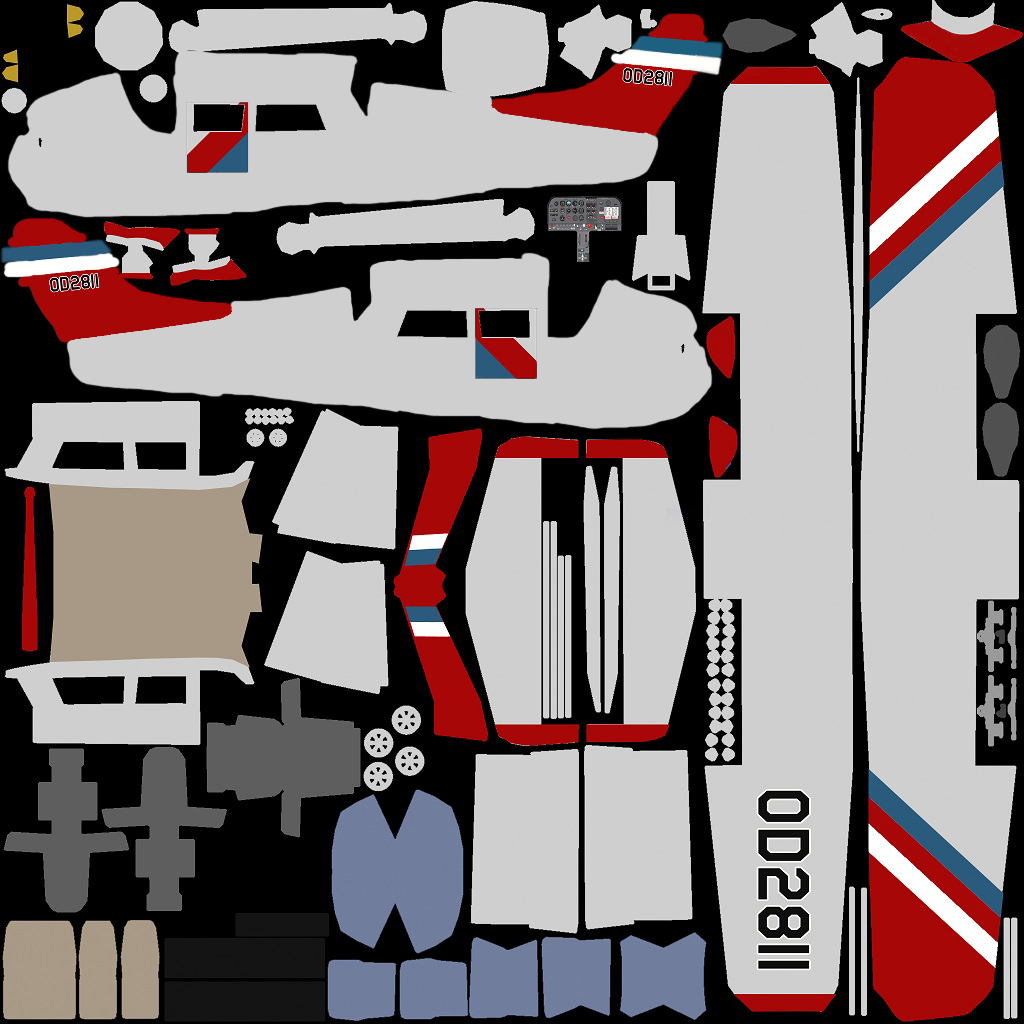
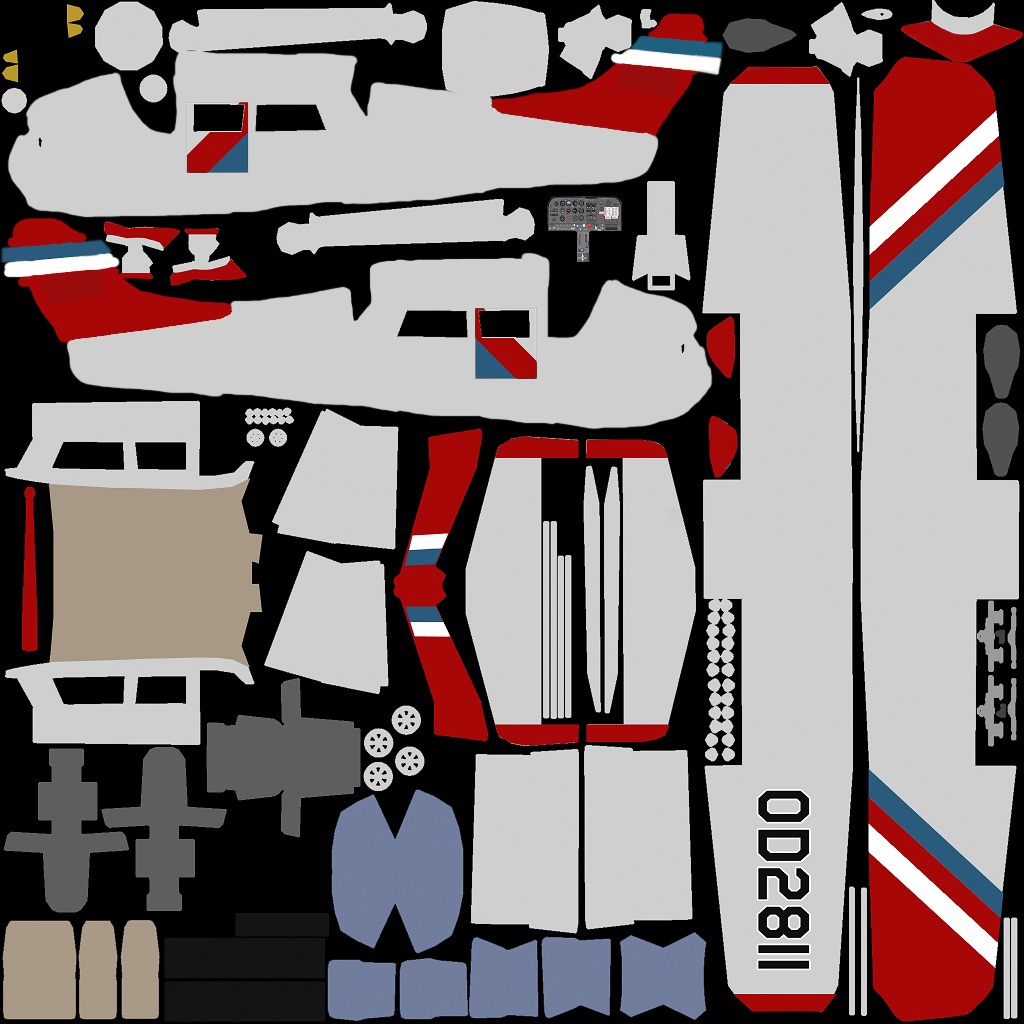
added textures

Changed region(s): [[0.5938, 0.0625, 0.6562, 0.0938], [0.0312, 0.25, 0.0938, 0.2812]]

diff --git a/src/cpp/App.cpp b/src/cpp/App.cpp
@@ -2,6 +2,7 @@
 #include "Camera.h"
 #include "Framebuffer.h"
 #include "Model.h"
+#include "Texture.h"
 #include "Window.h"
 
 #include <cstdlib>
@@ -18,9 +19,6 @@
 #include "glm/glm.hpp"
 #include "glm/gtc/matrix_transform.hpp"
 
-#define STB_IMAGE_IMPLEMENTATION
-#include "stb_image.h"
-
 // Shaders
 GLSLProgram *shader;
 GLSLProgram *display;
@@ -34,6 +32,7 @@ Camera *camera;
 
 // Displaying model
 Model *displaymodel;
+Texture *texture;
 
 // Model list
 std::vector<Model *> models;
@@ -53,6 +52,7 @@ int main() {
   }
 
   displaymodel = new Model("assets/models/display.obj");
+  texture = new Texture("assets/models/plane/diffuse.jpg");
 
   for (int i = 0; i < 2; i++) {
     std::cout << "Loading model: #" << i << std::endl;
@@ -78,9 +78,10 @@ int main() {
 
     shader->use();
     shader->setUniform("MVP", camera->getViewMatrix());
+    texture->use();
     for (int i = 0; i < models.size(); i++) {
       models.at(i)->setRotation(
-          glm::vec3(0.0f, (float)result.currentTime * 100 - 90, 0.0f));
+          glm::vec3(0.0f, (float)result.currentTime * 10 - 90, 0.0f));
       models.at(i)->setPosition(glm::vec3((float)i * -16.0f, 0.0f, 0.0f));
       shader->setUniform("uModelPosition", models.at(i)->getModelMatrix());
       models.at(i)->draw();

diff --git a/src/cpp/Texture.cpp b/src/cpp/Texture.cpp
@@ -1,0 +1,42 @@
+#include "Texture.h"
+#include <vector>
+
+#include <glm/vec3.hpp>
+
+#include <OBJLoader.h>
+#include <glm/gtc/matrix_transform.hpp>
+
+#define STB_IMAGE_IMPLEMENTATION
+#include "stb_image.h"
+
+Texture::Texture(const char *filename) {
+  glGenTextures(1, &texture);
+  glBindTexture(GL_TEXTURE_2D, texture);
+
+  // set the texture wrapping parameters
+  glTexParameteri(GL_TEXTURE_2D, GL_TEXTURE_WRAP_S, GL_REPEAT);
+  glTexParameteri(GL_TEXTURE_2D, GL_TEXTURE_WRAP_T, GL_REPEAT);
+
+  // set texture filtering parameters
+  glTexParameteri(GL_TEXTURE_2D, GL_TEXTURE_MIN_FILTER, GL_LINEAR);
+  glTexParameteri(GL_TEXTURE_2D, GL_TEXTURE_MAG_FILTER, GL_LINEAR);
+
+  // load image, create texture and generate mipmaps
+  int width, height, nrChannels;
+  // stbi_set_flip_vertically_on_load(true);
+
+  unsigned char *data = stbi_load(filename, &width, &height, &nrChannels, 0);
+  if (data) {
+    glTexImage2D(GL_TEXTURE_2D, 0, GL_RGB, width, height, 0, GL_RGB,
+                 GL_UNSIGNED_BYTE, data);
+    glGenerateMipmap(GL_TEXTURE_2D);
+  } else {
+    std::cout << "[TEXTURE] Failed to load texture" << std::endl;
+  }
+  stbi_image_free(data);
+}
+
+void Texture::use() {
+  glActiveTexture(GL_TEXTURE0);
+  glBindTexture(GL_TEXTURE_2D, texture);
+}

diff --git a/src/cpp/Window.cpp b/src/cpp/Window.cpp
@@ -66,7 +66,7 @@ bool Window::isValid() { return !!window; }
 bool Window::shouldClose() { return glfwWindowShouldClose(window); }
 void Window::setTitle(char *title) { this->title = title; }
 void Window::clear() {
-  glClearColor(0.0f, 0.0f, 0.0f, 1.0f);
+  glClearColor(0.2f, 0.2f, 0.2f, 1.0f);
   glClear(GL_COLOR_BUFFER_BIT | GL_DEPTH_BUFFER_BIT);
 }
 void Window::clean() {

diff --git a/include/Texture.h b/include/Texture.h
@@ -1,0 +1,21 @@
+#pragma once
+
+#include <GL/glew.h>
+#include <glm/gtx/transform.hpp>
+#include <glm/mat4x4.hpp>
+#include <iostream>
+#include <sstream>
+#include <string>
+
+#include <GL/glew.h>
+#include <GLFW/glfw3.h>
+#include <GLSLProgram.h>
+
+class Texture {
+private:
+  unsigned int texture;
+
+public:
+  Texture(const char *filename);
+  void use();
+};

diff --git a/include/App.h b/include/App.h
@@ -5,5 +5,5 @@
 const GLuint DEFAULT_WINDOW_WIDTH = 800, DEFAULT_WINDOW_HEIGHT = 800;
 const char *WINDOW_TITLE = "OpenGL Application";
 
-float PIXEL_RATIO = 0.5;
+float PIXEL_RATIO = 3;
 int FRAMEBUFFER_DIMENSIONS = DEFAULT_WINDOW_HEIGHT / PIXEL_RATIO;
